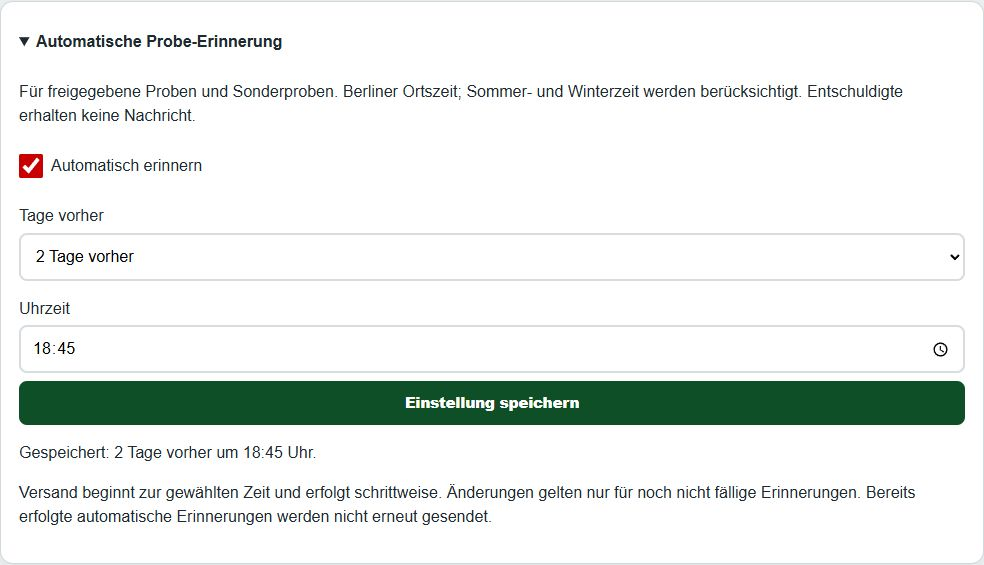
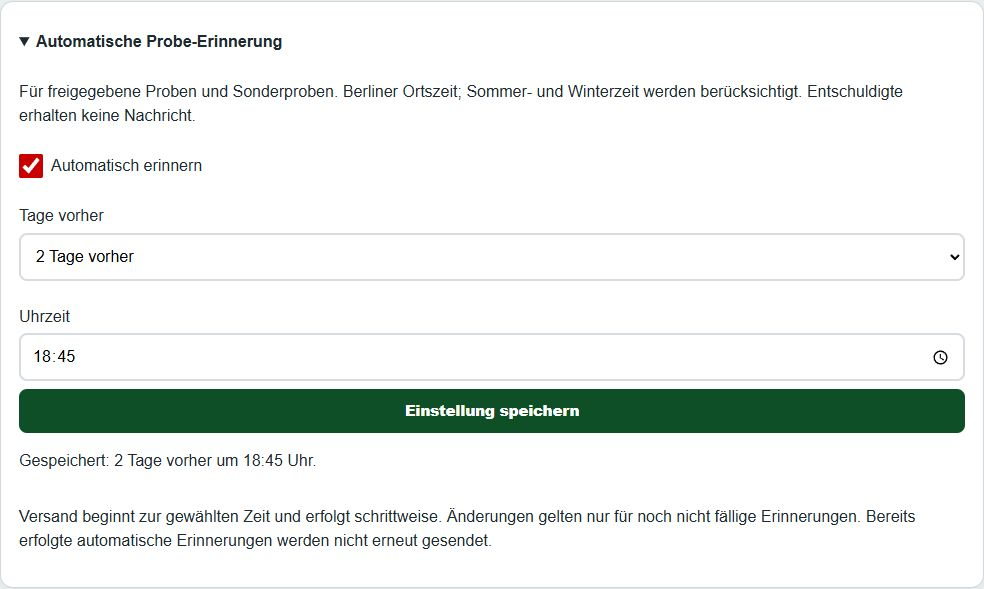
Fit reminder settings at enlarged text and cache the illustrated help

diff --git a/css/features/portal.css b/css/features/portal.css
@@ -293,6 +293,10 @@
 #settingsCalendarView button{min-height:44px;max-width:100%;white-space:normal;overflow-wrap:anywhere}
 #settingsCalendarView .primary-button{margin:0}
 #settingsCalendarView .outline-button{background:var(--white);border:1px solid #a9b0b5;color:var(--black);box-shadow:none}
+#settingsCalendarView #portal-reminder-settings{min-width:0;max-width:100%;box-sizing:border-box;overflow-wrap:anywhere}
+#portal-reminder-form{display:grid;grid-template-columns:minmax(0,1fr);min-width:0}
+#portal-reminder-form label,#portal-reminder-form button{min-width:0;max-width:100%;box-sizing:border-box;white-space:normal}
+#portal-reminder-form input[type=time],#portal-reminder-form select{display:block;width:100%;min-width:0;max-width:100%;box-sizing:border-box}
 #settingsCalendarView .portal-calendar-nav{display:grid;grid-template-columns:repeat(3,minmax(0,1fr));gap:4px;margin:6px 0 28px;padding:5px;border:1px solid var(--line);background:var(--white);border-radius:12px}
 #settingsCalendarView .portal-calendar-nav button{border:0;border-radius:8px;background:transparent;color:var(--muted);font-weight:700;padding:12px 6px}
 #settingsCalendarView .portal-calendar-nav button[aria-pressed=true]{background:var(--red);color:var(--white)}

diff --git a/service-worker.js b/service-worker.js
@@ -179,6 +179,7 @@ const PUBLIC_FILES=[
   "./assets/regulations/fwdv-010.pdf",
   "./assets/regulations/fwdv-100.pdf",
   "./assets/help/guide/geraetehaus-backlog.jpg",
+  "./assets/help/guide/geraetehaus-erinnerung.jpg",
   "./assets/help/guide/geraetehaus-abschluss.jpg",
   "./assets/help/guide/geraetehaus-anwesenheit.jpg",
   "./assets/help/guide/geraetehaus-auswertungen.jpg",
